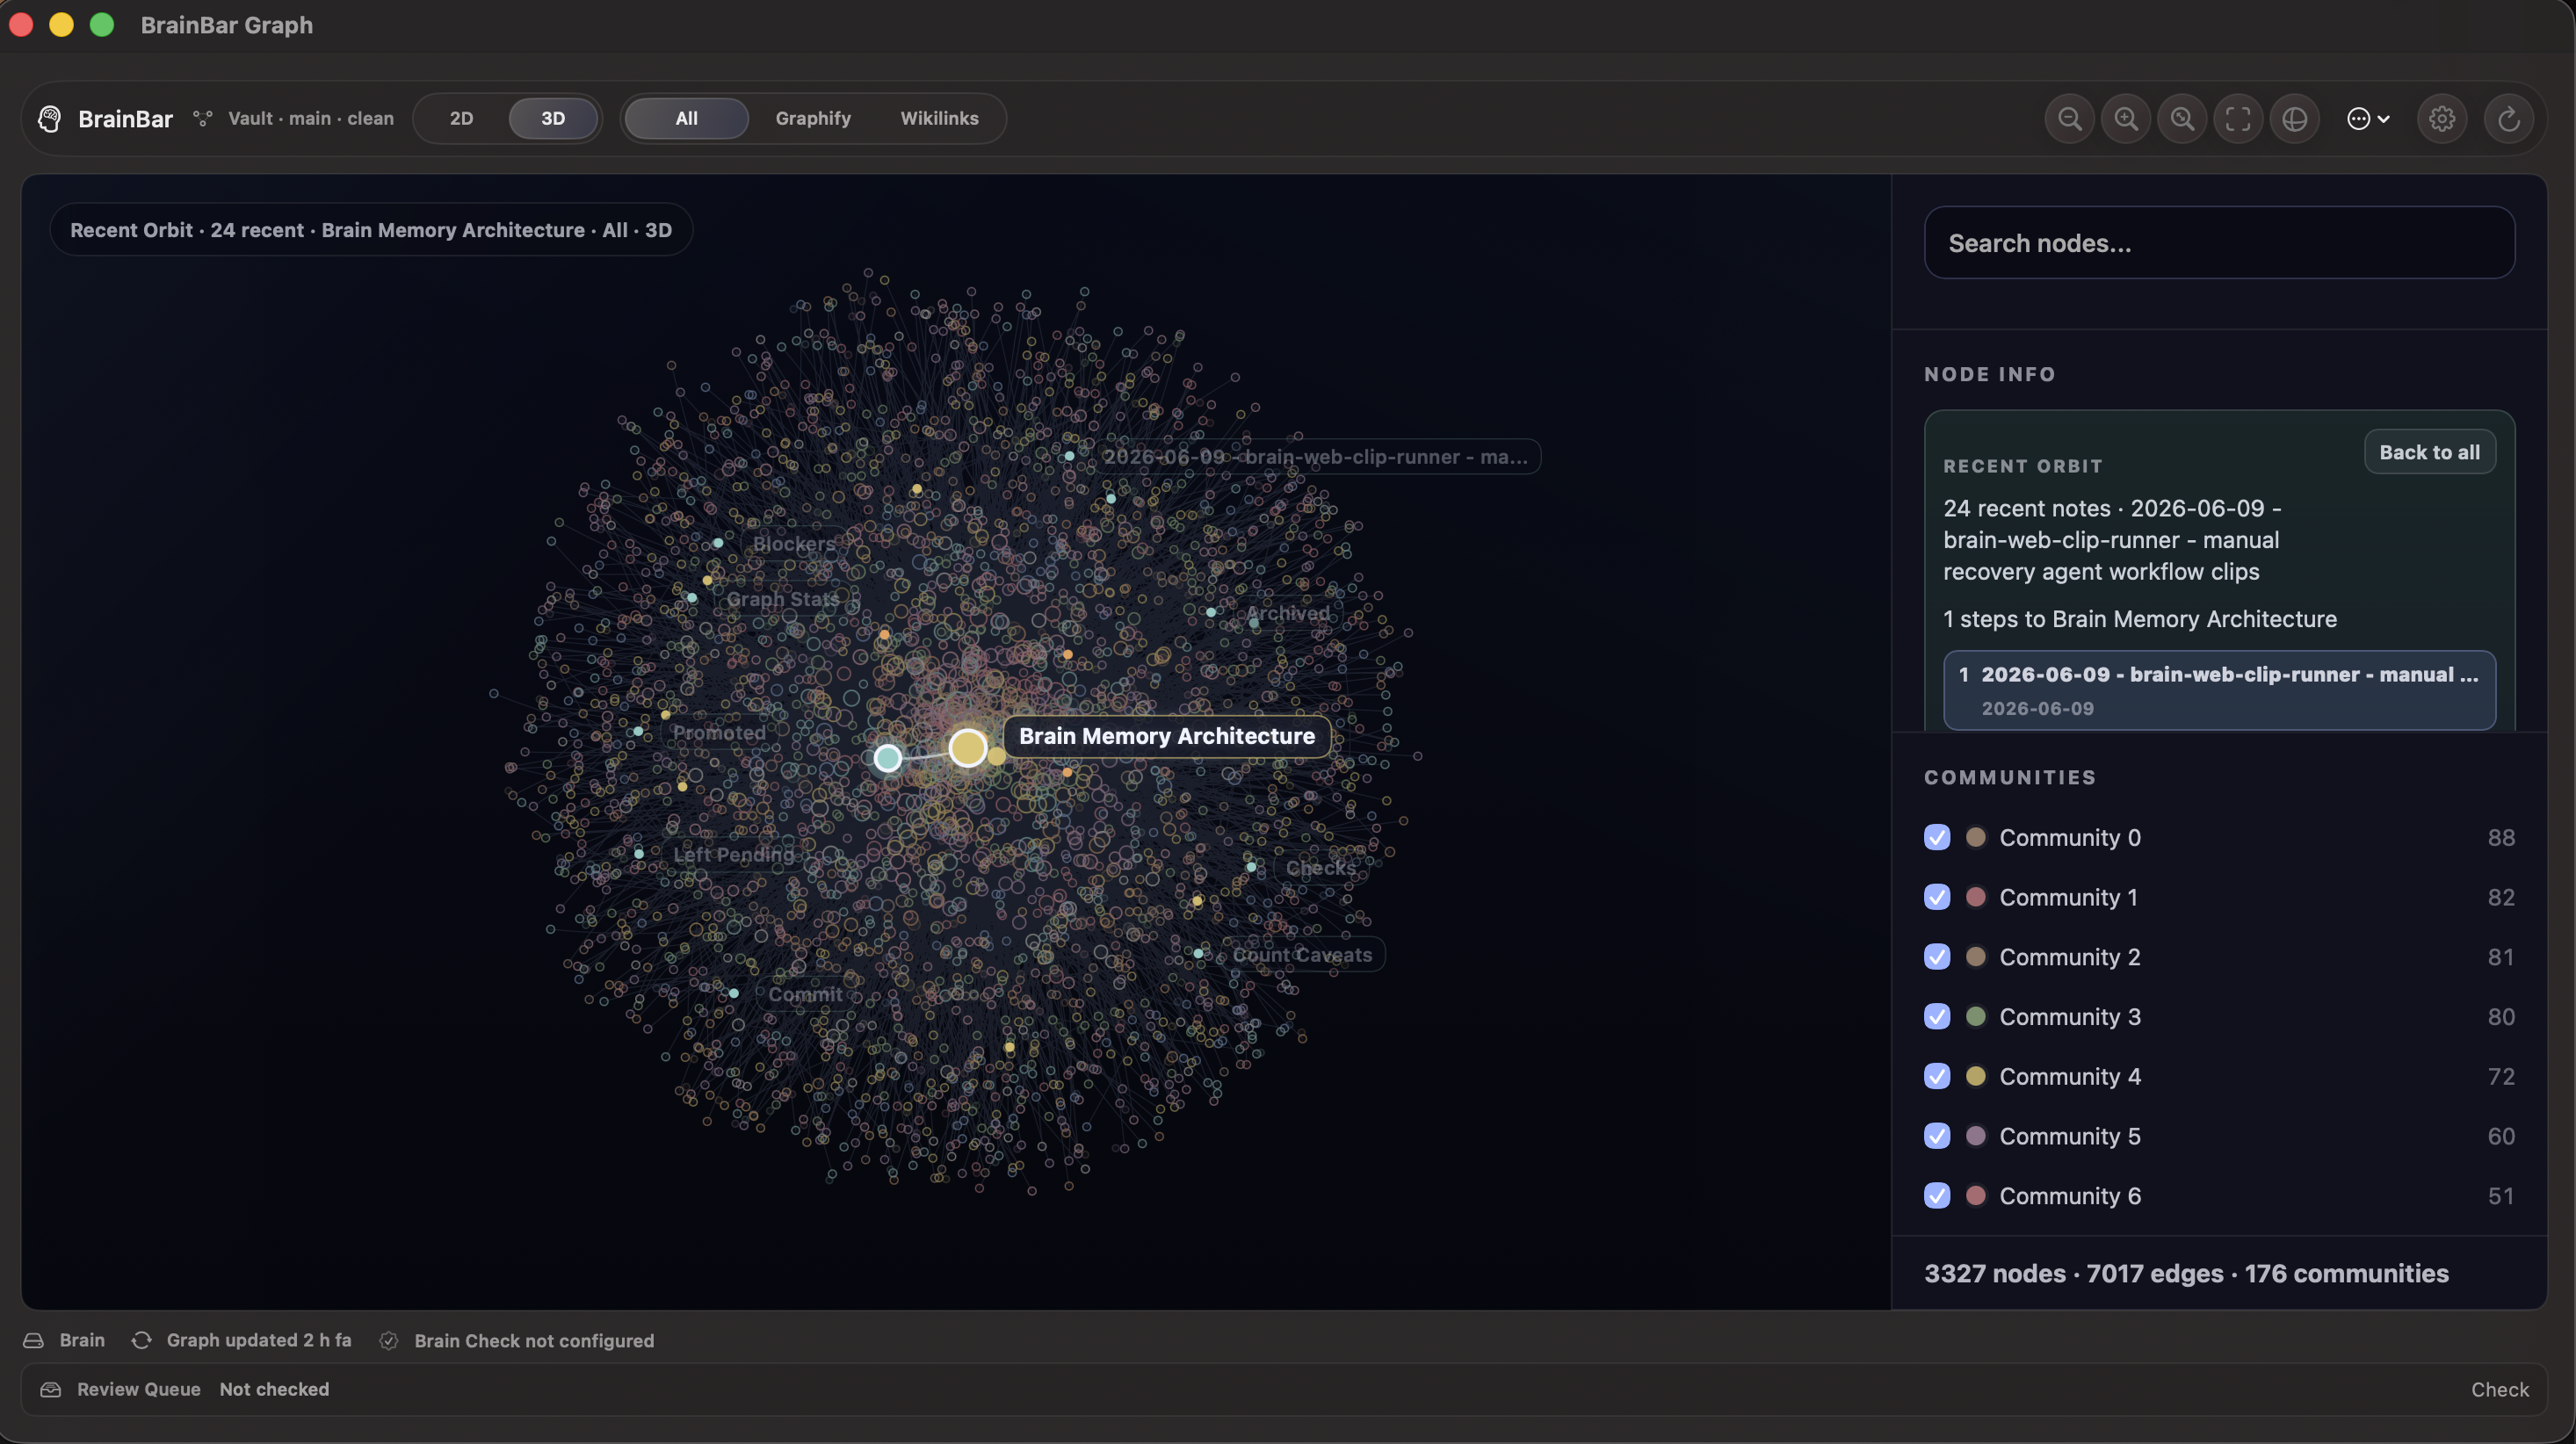
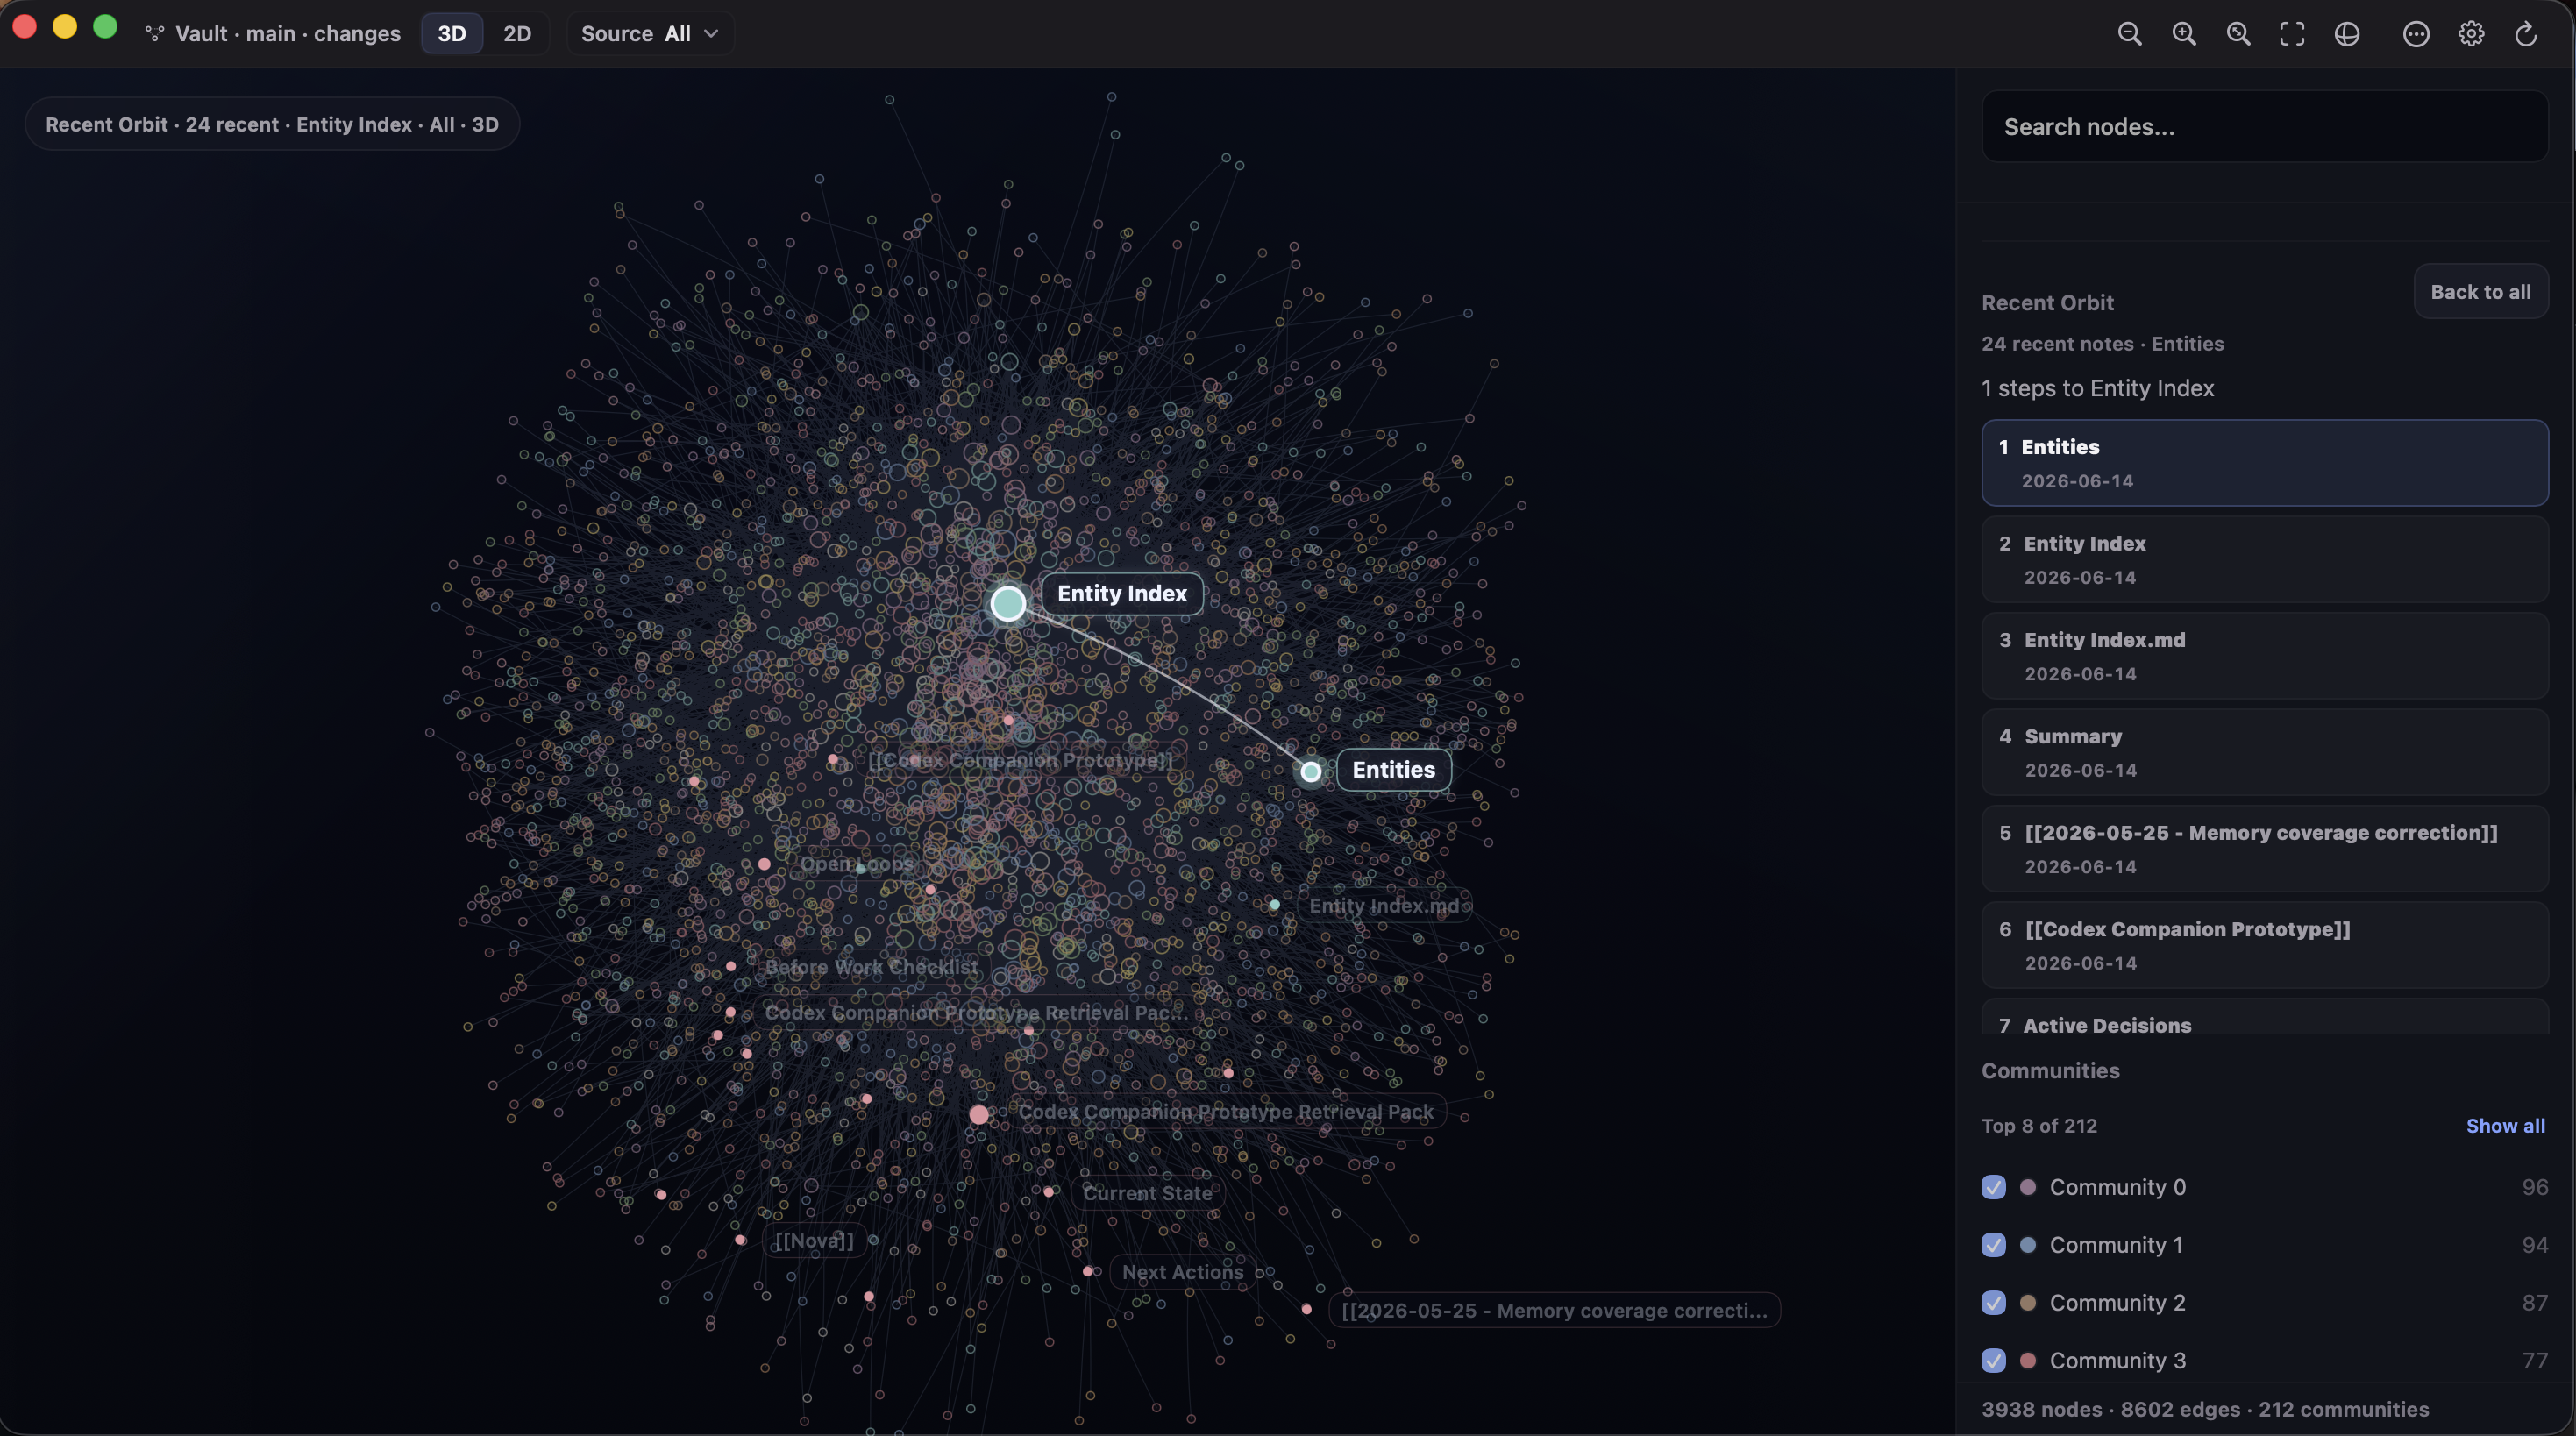
Refresh README for v0.9.8

Changed region(s): [[0.0, 0.0, 1.0, 1.0]]

diff --git a/README.md b/README.md
@@ -1,6 +1,6 @@
 # BrainBar
 
-> A local-first 3D control center for your Graphify-powered Markdown graph.
+> A local-first macOS app for exploring Graphify-powered Markdown graphs.
 
 [![Latest release](https://img.shields.io/github/v/release/Nova1390/brain-bar?style=flat-square)](https://github.com/Nova1390/brain-bar/releases/latest)
 [![macOS 14+](https://img.shields.io/badge/macOS-14%2B-111827?style=flat-square&logo=apple)](https://www.apple.com/macos/)
@@ -8,32 +8,34 @@
 [![Graphify](https://img.shields.io/badge/Graphify-compatible-6D7DFF?style=flat-square)](https://github.com/safishamsi/graphify)
 [![License: MIT](https://img.shields.io/badge/license-MIT-0f172a?style=flat-square)](LICENSE)
 
-BrainBar turns local Graphify output into a native macOS workspace for exploring a second brain or any Markdown knowledge graph. Open a 3D map of your notes, search-reveal the right place, focus a single neighborhood, trace the shortest visible route between two ideas, explain why that route exists, and re-enter from what changed recently.
+BrainBar turns local Graphify output into a native macOS workspace for navigating a second brain or any Graphify-compatible Markdown knowledge graph. Search a note, reveal it in 3D, focus its neighborhood, trace why two ideas connect, and watch local agent activity appear on the graph.
 
-It is built for people who already keep useful things in local Markdown and want the graph to become an operating surface, not just a pretty hairball.
+BrainBar is not a raw Markdown graph generator. It expects Graphify to generate `graphify-out/graph.json` first, then makes that graph useful as an interactive operating surface.
 
-![BrainBar 3D explorer entry points](docs/brainbar-3d-entrypoints.png)
+![BrainBar 3D Explorer](docs/brainbar-3d-entrypoints.png)
 
 ## What BrainBar Does
 
-BrainBar reads existing Graphify output from a local Markdown vault or Graphify-compatible content folder. It does not generate the graph from scratch, vendor Graphify, upload vault content, or rewrite generated Graphify files.
+BrainBar reads existing Graphify output from a configured local vault or content folder:
 
-Graph exploration features are runtime-only. Search Reveal, Focus, Source Lens, Shortest Path, Community Spotlight, Recent Orbit, Graph Story, and 2D graph views change the current app session; they do not write back to the vault.
+```text
+graphify-out/
+|-- graph.html
+|-- graph.json
+`-- GRAPH_REPORT.md
+```
+
+It does not vendor Graphify, upload vault content, rewrite generated Graphify files, or write to the vault from graph exploration features. The 3D and 2D graph modes are runtime-only views over local data.
 
 ## What Is In v0.9.8
 
-- 3D Explorer with Focus Orbit and depth controls.
-- Search Reveal for jumping from search results into the visible 3D graph and choosing path targets.
-- Shortest Path, Explain Path, and Path Compare for visible graph routes.
-- Community Spotlight for inspecting one visible community at a time.
-- Recent Orbit for resuming from recently changed notes.
-- Graph Story as a compact narrative tour through the visible graph.
-- Agent Activity overlay for local file changes and metadata-only agent trace events, with one-click Codex and Claude integrations.
-- Living Graph polish: calm ambient breathing, recent-note warmth, edge currents, community breathing, and softened response pulses.
-- 2D Workbench with operational graph views, Search Reveal, Focus, community detail, edge inspection, Graph Check, Source Lens, and 2D-to-3D bridge actions.
-- Refined 2D Workbench visuals with a calmer map canvas, quieter global edges, clearer state highlights, and more consistent panels.
-- Premium app surface polish with flatter macOS chrome, quieter sidebars, a more native Settings layout, and the updated BrainBar mark in app/menu bar surfaces.
-- Public GitHub Releases as Developer ID signed, Apple-notarized DMGs.
+- **3D Explorer by default.** Search Reveal, Focus Orbit, Shortest Path, Explain Path, Path Compare, Community Spotlight, Recent Orbit, Graph Story, and Living Graph polish.
+- **Agent Activity.** Local file activity plus metadata-only `brainbar-trace` events, with one-click Codex and Claude integrations.
+- **2D Workbench.** Operational graph inspection for recent notes, key notes, needs-links notes, groups, edge provenance, Graph Check, and bridge actions into 3D.
+- **Premium macOS surface.** Flatter app chrome, quieter sidebars, updated BrainBar mark, and a more native Settings layout.
+- **Notarized releases.** Public GitHub Releases ship as Developer ID signed, Apple-notarized `BrainBar.dmg` files.
+
+See [CHANGELOG.md](CHANGELOG.md) for the full release history.
 
 ## Install
 
@@ -55,147 +57,70 @@ To replace an existing install non-interactively:
 BRAIN_BAR_FORCE=1 curl -fsSL https://raw.githubusercontent.com/Nova1390/brain-bar/main/install.sh | bash
 ```
 
-Public releases from `v0.9.3` onward are Developer ID signed, Apple-notarized, stapled, packaged as `BrainBar.dmg`, and verified on a clean GitHub-hosted macOS runner.
-
 ## First Run
 
-BrainBar expects Graphify output to already exist inside the configured vault.
+1. Install or update [Graphify](https://github.com/safishamsi/graphify).
+2. Generate Graphify output for your local Markdown vault.
+3. Confirm `graphify-out/graph.json` exists inside the configured vault.
+4. Open BrainBar and set the vault path in Settings, or pass `BRAIN_BAR_VAULT_PATH` during install.
+5. Use Refresh Graph if the graph output is stale.
+6. Open the graph window and start in 3D.
 
-1. Install or update [Graphify](https://github.com/safishamsi/graphify) separately.
-2. Configure BrainBar with your local vault path, either in Settings or with `BRAIN_BAR_VAULT_PATH` during install.
-3. Confirm the configured vault contains:
+## The Core Loop
 
-```text
-graphify-out/
-|-- graph.html
-|-- graph.json
-`-- GRAPH_REPORT.md
-```
+1. **Reveal.** Search for a note and jump to it without collapsing the graph.
+2. **Focus.** Use Focus Orbit and depth controls to read its visible neighborhood.
+3. **Trace.** Start a path from one note, click another note or search result, and BrainBar highlights the shortest visible route.
+4. **Understand.** Read `Why this path`, compare route variants, or switch Source Lens between All, Graphify, and Wikilinks.
+5. **Re-enter.** Use Recent Orbit or Graph Story to resume from recent changes and orient yourself in the current graph.
 
-4. Open BrainBar from the menu bar.
-5. Use Refresh Graph if the graph output is stale or missing.
-6. Open the Focus Window and start with the 3D Explorer.
+![BrainBar shortest path](docs/brainbar-path-demo.gif)
 
-## The Wow Loop
+## Agent Activity
 
-1. Open BrainBar from the menu bar.
-2. Switch to the 3D Explorer.
-3. Search for a note and reveal it in place without collapsing the graph.
-4. Use Focus to understand its neighborhood.
-5. Start a path from one note, click another note or search result, and BrainBar traces the visible route.
-6. Read Why this path, compare route variants, or use Recent Orbit and Graph Story to re-enter from recent work.
+Agent Activity shows what local tools and agents are touching in your graph. BrainBar watches recent local file activity and can also read metadata-only JSONL events from the bundled `brainbar-trace` helper.
 
-![BrainBar 3D shortest path](docs/brainbar-path-demo.gif)
+The v0.9.8 integration includes one-click installers for Codex and Claude. When enabled, supported agents can emit events such as `read`, `write`, `create`, `delete`, `focus`, `closeout`, and `decision`. BrainBar maps those paths back to graph nodes when possible and shows pending paths when the graph has not been refreshed yet.
 
-## Why BrainBar
+![BrainBar Agent Activity](docs/brainbar-agent-activity.png)
 
-- **A graph you can act on.** Search-reveal a node, open its source note, focus its neighbors, or start a path to another idea.
-- **Local by default.** BrainBar reads local Graphify output and local source files. It does not upload vault content.
-- **Paths with meaning.** Shortest Path, Explain Path, and Path Compare turn connections into readable context.
-- **Recent context recovery.** Recent Orbit highlights newly changed notes and shows how they connect back to key notes.
-- **Guided orientation.** Graph Story turns recent notes, key notes, large communities, bridge notes, and needs-attention areas into a compact narrative tour.
-- **Diagnostics stay available.** 2D Workbench remains the operational surface for Recent Notes, Needs Links, Key Notes, Groups, Source Lens, and Graph Check.
-- **No account required.** BrainBar is a local app over local files and local commands.
+The event contract is deliberately narrow:
+
+- metadata only: agent, action, path, timestamp, optional reason/status
+- no note contents, prompts, raw transcripts, stdout/stderr, secrets, or build artifacts
+- local log only, stored under `~/Library/Application Support/BrainBar/`
+- automatic retention keeps the log bounded
+
+![BrainBar Agent Activity sidebar detail](docs/brainbar-agent-activity-sidebar.png)
 
 ## 3D Explorer
 
-The 3D Explorer is BrainBar's main human exploration surface. It keeps the whole graph visible, adds subtle ambient motion and response pulses, and gives you runtime-only modes for making one part understandable at a time.
+The 3D Explorer is BrainBar's main surface. It keeps the graph spatially present while making one route, node, community, or recent change readable.
 
-### Focus Orbit
-
-Click a note, then use `Focus`, `Depth 1`, `Depth 2`, or `Depth 3` to keep the selected note readable while surrounding context fades back. The sidebar shows the selected note, source path, degree, and top neighbors instead of an infinite wall of links.
-
-### Search Reveal
-
-Search in 3D jumps to visible matching notes instead of filtering the graph away. Pick a result to reveal that note, highlight its local neighborhood, and then use Focus or Start path from the sidebar. If `Start path` is already armed, clicking a search result uses that result as the path target.
-
-### Shortest Path
-
-Click a node, choose `Start path`, then click another node. BrainBar calculates the shortest visible unweighted path using the current Source Lens and community filters.
-
-Path mode highlights the path, dims surrounding graph context, labels the route, and keeps ordered steps clickable in the sidebar.
-
-### Explain Path
-
-Under the path steps, BrainBar adds a deterministic `Why this path` explanation. It uses only visible graph metadata:
-
-- Wikilink vs Graphify provenance
-- communities crossed
-- strongest bridge note in the route
-- available edge labels
-- conservative caveats when metadata is sparse
-
-No AI, network call, or vault write is involved.
-
-### Path Compare
-
-When alternative routes exist, Path Compare can switch the same source and target between:
-
-- `Shortest visible`
-- `Different route`
-- `Best explained`
-- `Wikilinks only`
-- `Graphify only`
-
-If a variant is unavailable in the current view, BrainBar says so instead of pretending every pair has every kind of path.
-
-Unavailable variants are normal when the visible graph has only one route, no route between the selected nodes, or active Source Lens/community filters hide the needed edges.
-
-### Community Spotlight
-
-Click a community to dim the rest of the graph, show the selected community, list top notes, and surface bridge notes that connect it to surrounding areas. Large communities use conservative render budgets so the spotlight stays responsive.
-
-### Recent Orbit
-
-Recent Orbit answers: "What changed recently?"
-
-It highlights recent notes using file modification metadata when available, falls back to date-like labels or paths, and traces one active recent note to its nearest visible key note.
-
-Use it when you want to resume from recent work and see how that work connects back to the graph.
+- **Search Reveal** jumps to visible matching notes and highlights local neighbors.
+- **Focus Orbit** centers a selected note and expands visible context by depth.
+- **Shortest Path** traces the shortest visible unweighted route between two notes.
+- **Explain Path** summarizes visible graph metadata behind a route without AI calls.
+- **Path Compare** shows alternative deterministic route variants when they exist.
+- **Community Spotlight** inspects one visible community without losing global context.
+- **Recent Orbit** highlights recently changed notes and traces one active recent note to a nearby key note.
+- **Graph Story** gives a guided deterministic tour through recent changes, key notes, communities, bridge notes, and needs-attention areas.
 
 ![BrainBar Recent Orbit](docs/brainbar-recent-orbit.png)
-
-### Graph Story
-
-Graph Story is a guided, deterministic tour through the current visible graph. Each step appears as a compact story card with a primary note or community, a short takeaway, and a few supporting items instead of a long diagnostic list.
-
-Current step types include:
-
-- Recently changed notes
-- Your most connected notes
-- Largest visible communities
-- Notes connecting communities
-- Areas that may need links
-
-The tour adapts to the current Source Lens and community filters. Empty categories are skipped, and actions such as `Focus note` or `Open note` appear only when the current step has a suitable note.
-
-Use it when you want orientation: a short guided pass through what matters in the visible graph.
 
 ![BrainBar Graph Story](docs/brainbar-graph-story.png)
 
 ## 2D Workbench
 
-2D is the stable embedded Graphify-powered workbench. BrainBar injects runtime JS/CSS to add inspection, search, focus, community detail, edge inspection, and graph-check controls without rewriting `graphify-out/graph.html`.
+2D is the operational workbench for inspection and graph hygiene. It embeds the generated Graphify/vis-network graph and adds BrainBar runtime controls without rewriting `graphify-out/graph.html`.
 
-![BrainBar Focus Window](docs/brainbar-focus-all.png)
+Use it for:
 
-The 2D toolbar focuses on operational views:
-
-- `Global`
-- `Focus`
-- `Recent Notes`
-- `Key Notes`
-- `Needs Links`
-- `Groups`
-- `Graph Check`
-
-`Wikilinks` and `Graphify` live in the 2D `Source Lens` control so the workbench views stay focused on tasks rather than provenance toggles.
-
-When Review Queue items expose `source_file` or `node_id`, a `Review` view can highlight them in the graph. If there are no graph-targeted review items, the button stays hidden.
-
-From 2D, selected notes, edges, and communities can bridge into 3D with `Reveal in 3D`, `Path from here in 3D`, or community reveal actions.
-
-![BrainBar node navigation](docs/brainbar-readme-node-focus.png)
+- recent notes, key notes, needs-links notes, groups, and Graph Check
+- Source Lens inspection across All, Graphify, and Wikilinks
+- edge provenance and source/target inspection
+- community detail and bridge notes
+- bridge actions such as Reveal in 3D and Path from here in 3D
 
 ## Source Lens
 
@@ -207,32 +132,17 @@ Source Lens filters edge provenance in the current graph view:
 
 The internal compatibility raw value for Wikilinks is still `obsidian`; the public label is `Wikilinks`.
 
-![BrainBar Source Lens](docs/brainbar-readme-source-lens.png)
+## Local Workflow Hooks
 
-## Local Workflow Control
-
-BrainBar can also act as a small local command surface:
+BrainBar can run configured local commands, but it does not define or own those workflows:
 
 - Refresh Graphify output.
 - Open Graphify report files.
 - Show System Status for vault path, graph file, Graphify command, Git state, Review Queue, and Brain Check.
 - Run an optional Brain Check command.
-- Show an optional Review Queue status command.
+- Show an optional Review Queue status command and run an explicit manual action.
 
-Review Queue is deliberately generic. BrainBar reads a configured local JSON status command and can run an explicit manual action when clicked. The background watcher is off by default and only checks status.
-
-## Graphify
-
-BrainBar expects Graphify output in the configured vault:
-
-```text
-graphify-out/
-|-- graph.html
-|-- graph.json
-`-- GRAPH_REPORT.md
-```
-
-BrainBar does not vendor, fork, or modify Graphify. It runs the configured local refresh command and embeds the generated files.
+Review Queue is generic and local. The background watcher is off by default and only checks status.
 
 ## Configuration
 
@@ -242,26 +152,33 @@ Default config path:
 ~/Library/Application Support/BrainBar/config.json
 ```
 
-Development and tests can override it:
-
-```sh
-BRAIN_BAR_CONFIG=/tmp/brainbar-config.json open ~/Applications/BrainBar.app
-```
-
 Installer variables:
 
 - `BRAIN_BAR_VAULT_PATH`: prefill the configured local vault path.
 - `BRAIN_BAR_FORCE=1`: replace an existing install non-interactively.
 - `BRAIN_BAR_INSTALL_DIR`: override the install directory, defaulting to `~/Applications`.
 
+Development and tests can override the config path:
+
+```sh
+BRAIN_BAR_CONFIG=/tmp/brainbar-config.json open ~/Applications/BrainBar.app
+```
+
 See [Configuration](docs/configuration.md) for the full config shape and command behavior.
 
 ## Requirements
 
+For users:
+
 - macOS 14 or newer
+- Graphify output in the configured vault
 - `graphify` available on `PATH` for the default refresh command, or a custom refresh command in config
-- `git` available on `PATH` for Git status
-- Xcode 26 or newer for local development
+- `git` on `PATH` if you want vault Git status
+
+For development:
+
+- Xcode 26 or newer
+- Node.js for graph runtime smoke tests
 
 ## Development
 
@@ -318,6 +235,8 @@ BRAIN_BAR_REMOVE_CONFIG=1 curl -fsSL https://raw.githubusercontent.com/Nova1390/
 - **Search finds nothing.** Search Reveal only searches nodes visible under the current Source Lens and community filters.
 - **No path found.** The selected nodes may be disconnected in the visible graph, or the active Source Lens/community filters may hide the route.
 - **Recent Orbit is empty.** BrainBar needs file modification metadata or date-like labels/paths to identify recent notes.
+- **Agent Activity shows pending paths.** Refresh Graph after creating new files so Graphify can add them to `graph.json`.
+- **Codex or Claude events do not appear.** Enable Agent Activity in Settings, install the integration, and confirm the agent is using `brainbar-trace`.
 - **macOS blocks the app.** Install the latest notarized DMG release instead of an older non-notarized build.
 
 ## Privacy
@@ -330,6 +249,7 @@ BrainBar is local-first:
 - It does not upload vault content.
 - It does not write to the vault from graph exploration features.
 - It does not call remote AI services.
+- Agent Activity stores metadata-only local events and never note contents.
 
 ## License
 